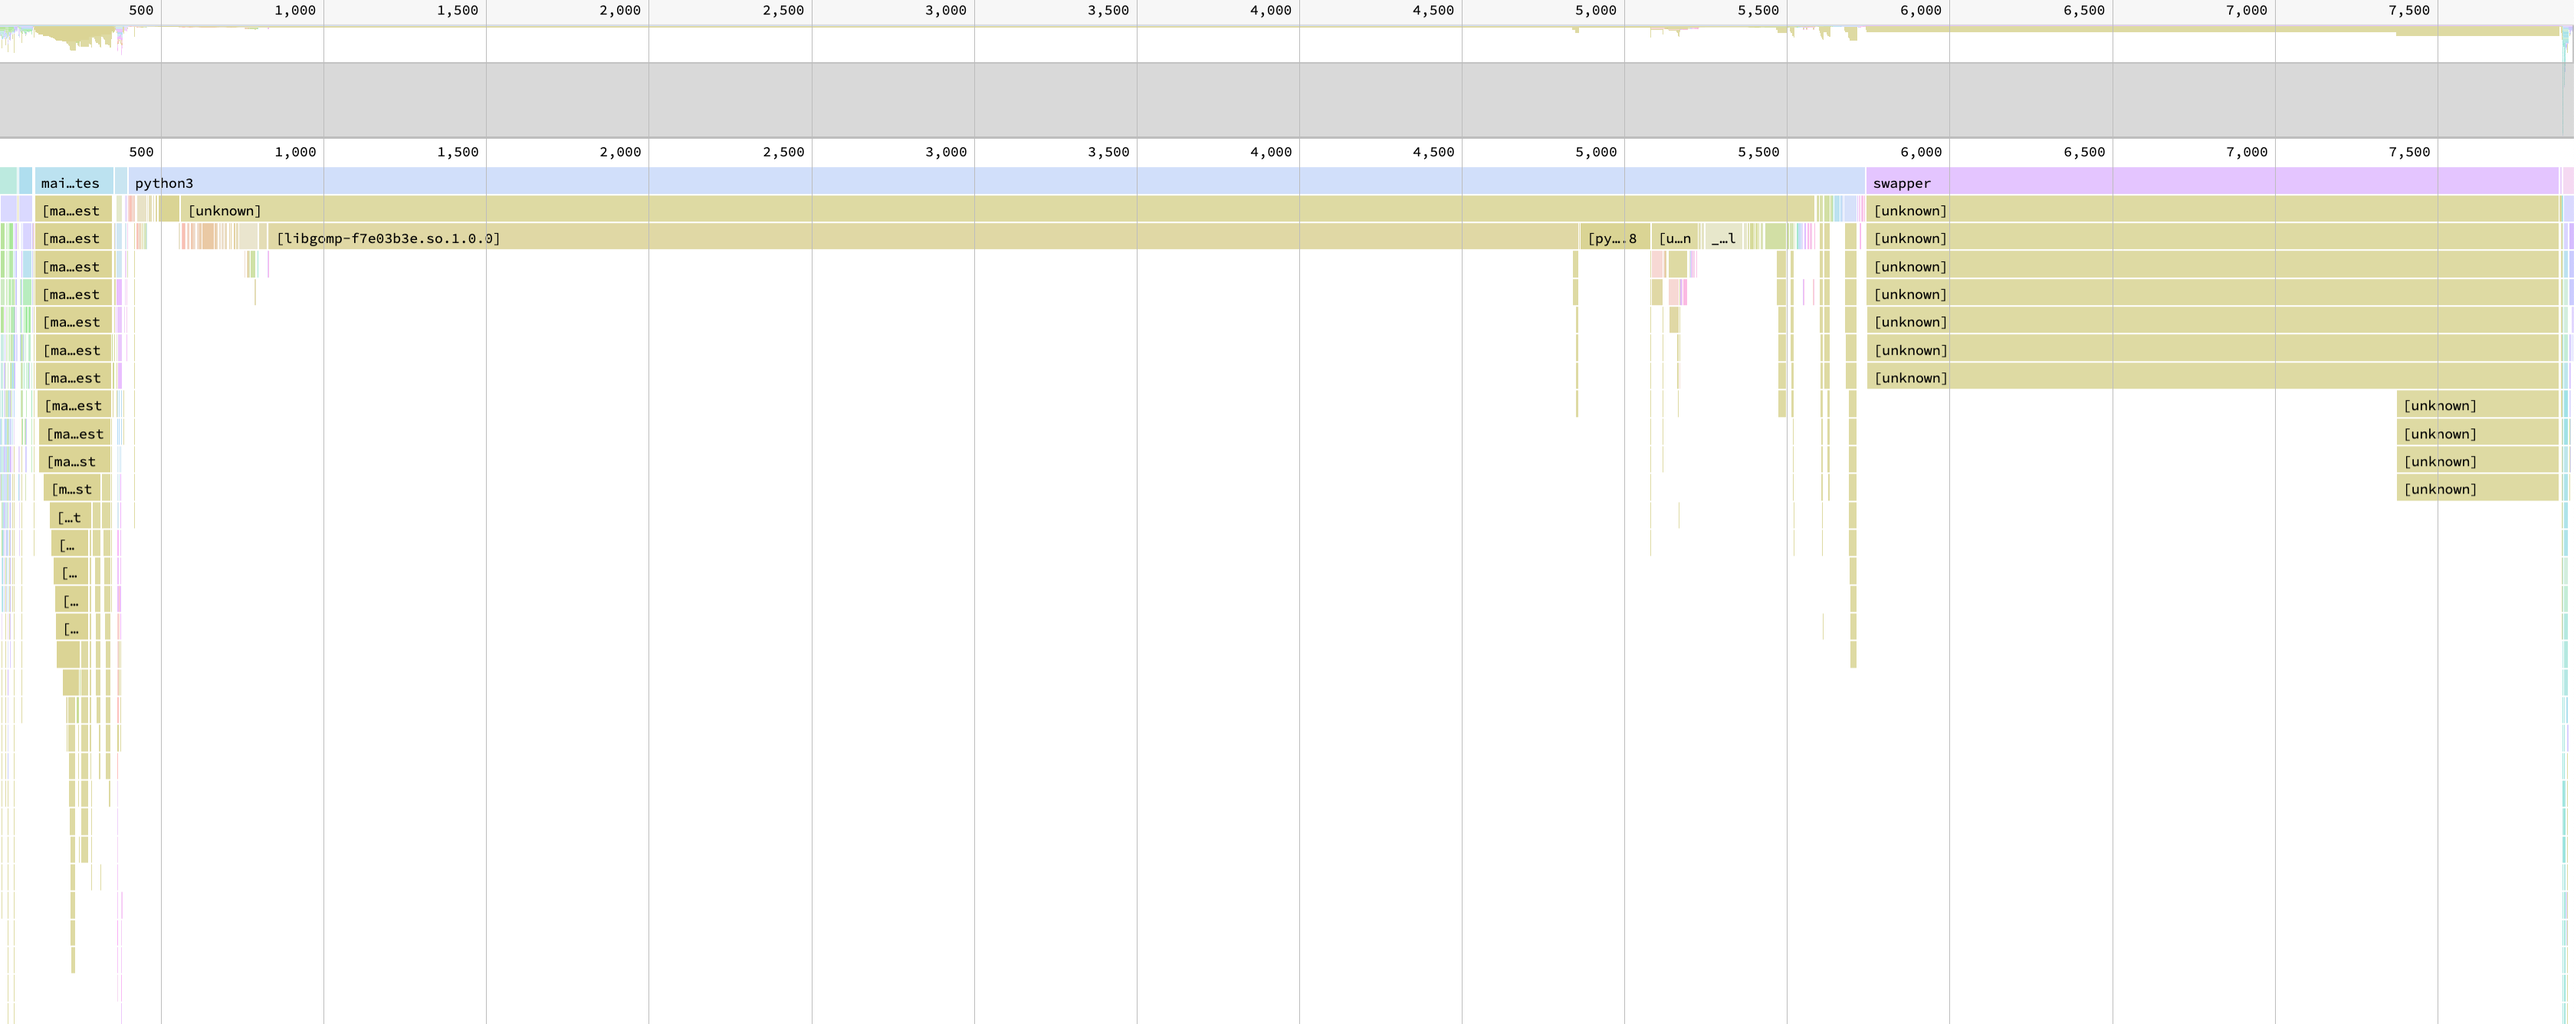
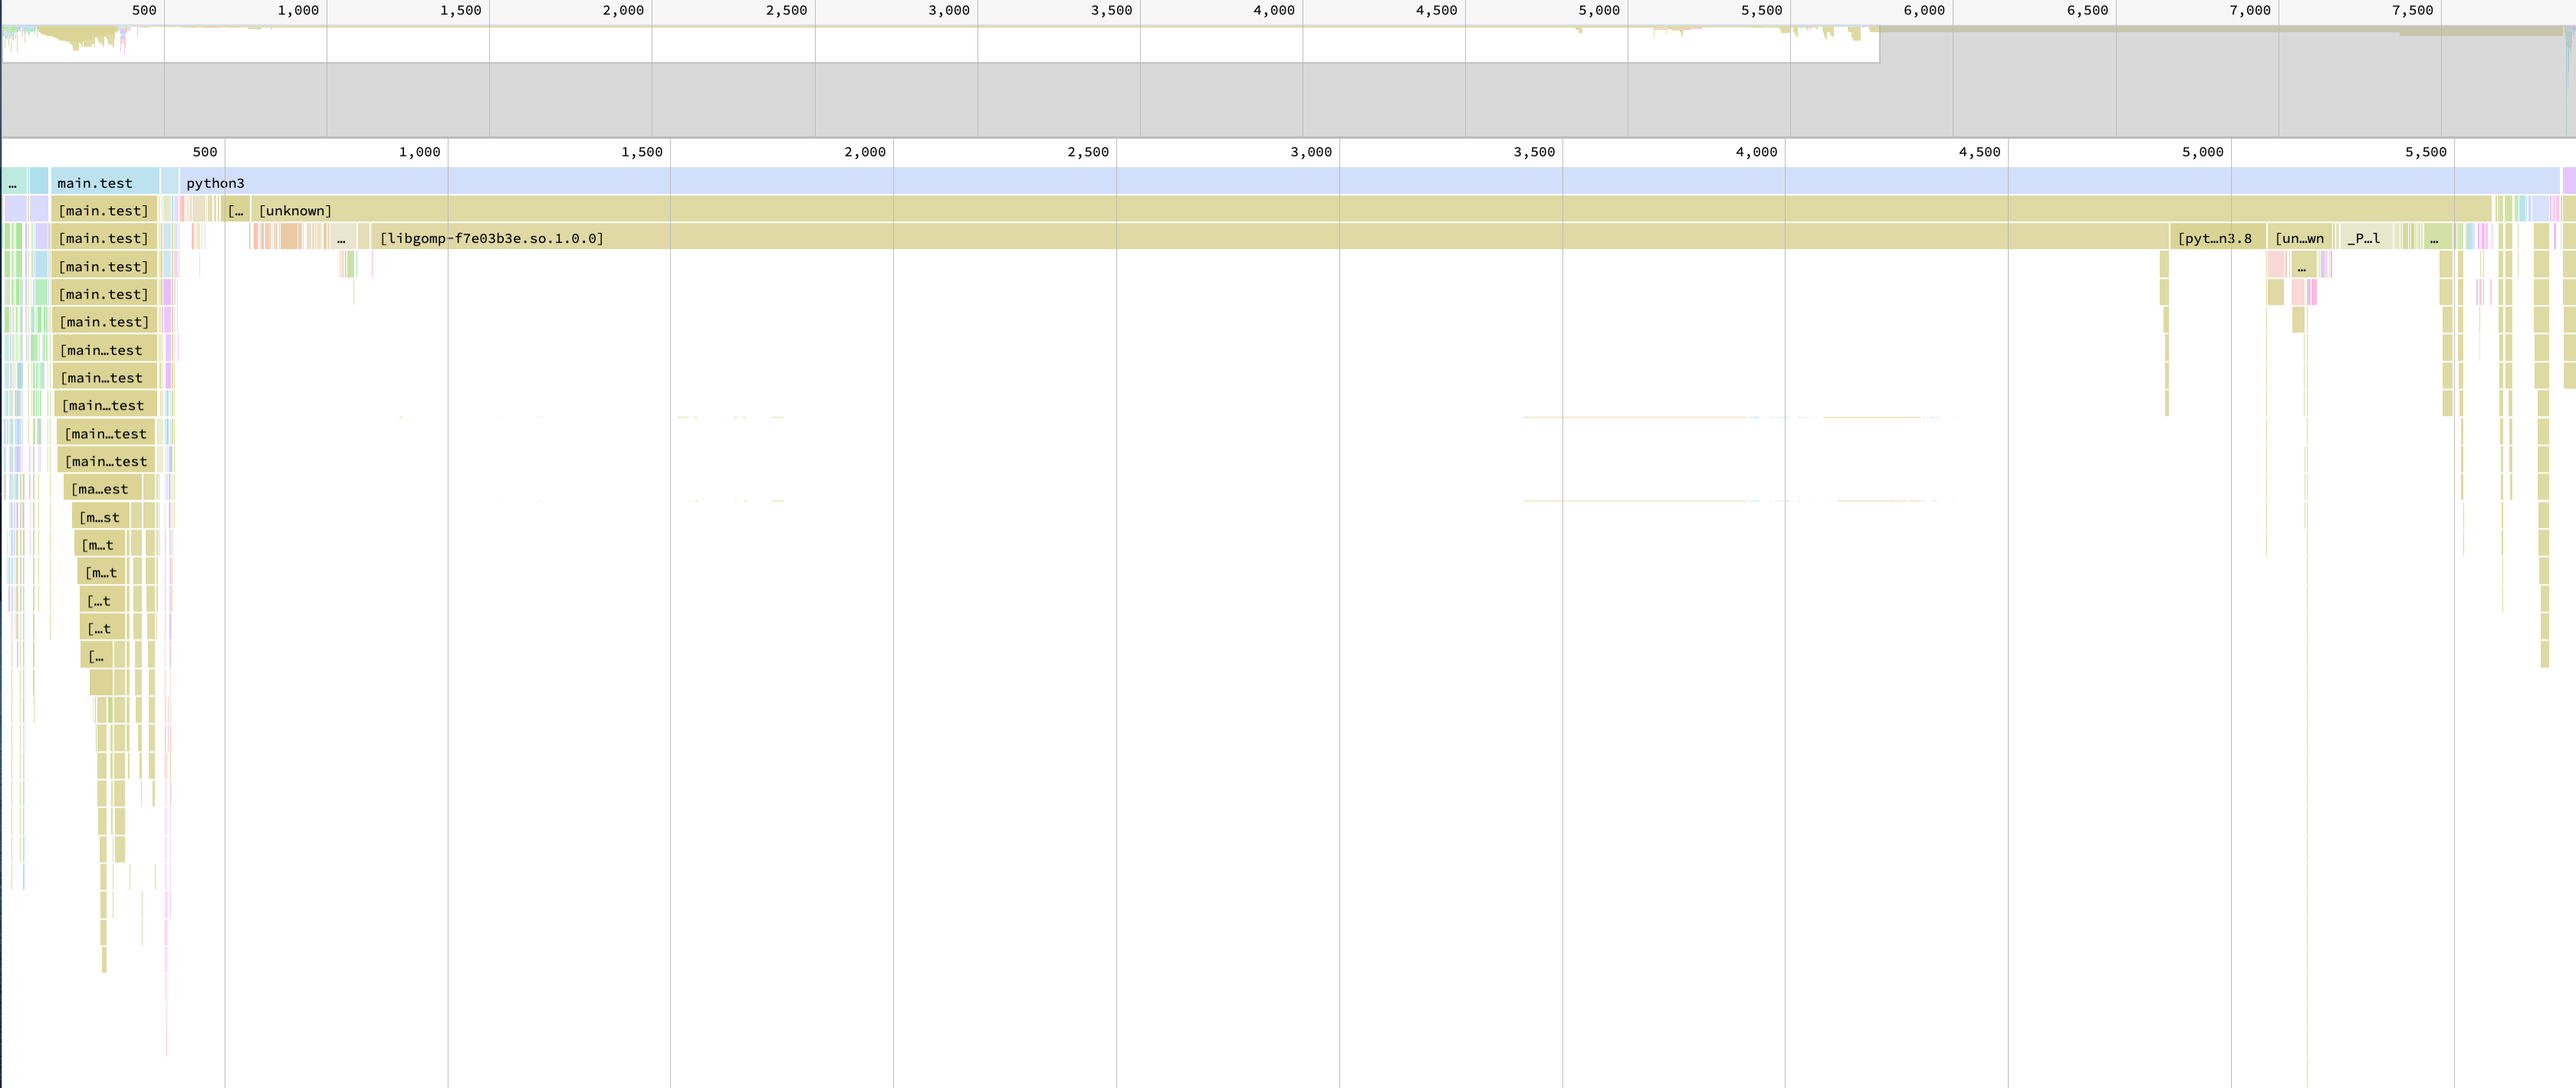
docs

Changed region(s): [[0.0, 0.1228, 1.0, 1.0], [0.0, 0.0, 1.0, 0.0614], [0.7123, 0.4296, 0.7433, 0.491]]

diff --git a/README.md b/README.md
@@ -8,7 +8,6 @@ It is common to run Go service in a backed form and on Linux platform, thus we d
 In the work bellow, we compare typical implementations on how this inference task can be achieved.
 
 - [ ] illustration of latencies breakdowns
-- [ ] system level profiling with perf
 
 ```
 host: AWS EC2 t2.xlarge shared
@@ -76,6 +75,37 @@ How fast do you need to get?
     200ms                - AWS RDS MySQL/PostgreSQL; AWS Aurora
  10s                     - AWS Cloudfront 1MB transfer time
 ```
+
+### Profiling and Analysis
+
+**[491ns/575ns]** Leaves — we see that most of time taken in Leaves Random Forest code. Leaves code does not have mallocs. Inplace preprocessing does not have mallocs, with non-inplace version malloc happen and takes and takes half of time of preprocessing.
+![leaves](docs/profiles-readme/leaves.png)
+
+**[243µ]** UDS Raw bytes Python — we see that Python takes much longer time than preprocessing in Go, however Go is at least visible on the chart. We also note that Python spends most of the time in `libgomp.so` call, this library is in GNU OpenMP written in C which does parallel operations.
+
+![uds](docs/profiles-readme/uds.png)
+
+**[244µ]** CGo version — similarly, we see that call to `libgomp.so` is being done. It is much smaller compare to rest of o CGo code, as compared to Python version above. Over overall results are not better then? Likely this is due to performance degradation from Go to CGo. We also note that malloc is done.
+
+![cgo](docs/profiles-readme/cgo.png)
+
+**[367µ]** gRPC over UDS to C++ — we see that Go code is around 50% of C++ version. In C++ 50% of time spend on gRPC code.
+Lastly, C++ also uses `libgomp.so`. We don't see on this chart, but likely Go code also spends considerable time on gRPC code.
+
+![cgo](docs/profiles-readme/grpc-cpp.png)
+
+**[785µ]** gRPC over UDS to Python wihout sklearn — we see that Go code is visible in the chart. Python spends only portion on time in `libgomp.so`.
+
+![cgo](docs/profiles-readme/grpc-python-processed.png)
+
+**[21ms]** gRPC over UDS to Python with sklearn — we see that Go code (`main.test`) is no longer visible the chart. Python spends only small fraction of time on `libgomp.so`.
+
+![cgo](docs/profiles-readme/grpc-python-sklearn.png)
+
+
+**[22ms]** REST service version with sklearn — similarly, we see that Go code (`main.test`) is no longer visible in the chart. Python spends more time in `libgomp.so` as compared to Python + gRPC + skelarn version, however it is not clear why results are worser.
+
+![cgo](docs/profiles-readme/rest.png)
 
 ### Future work
 
